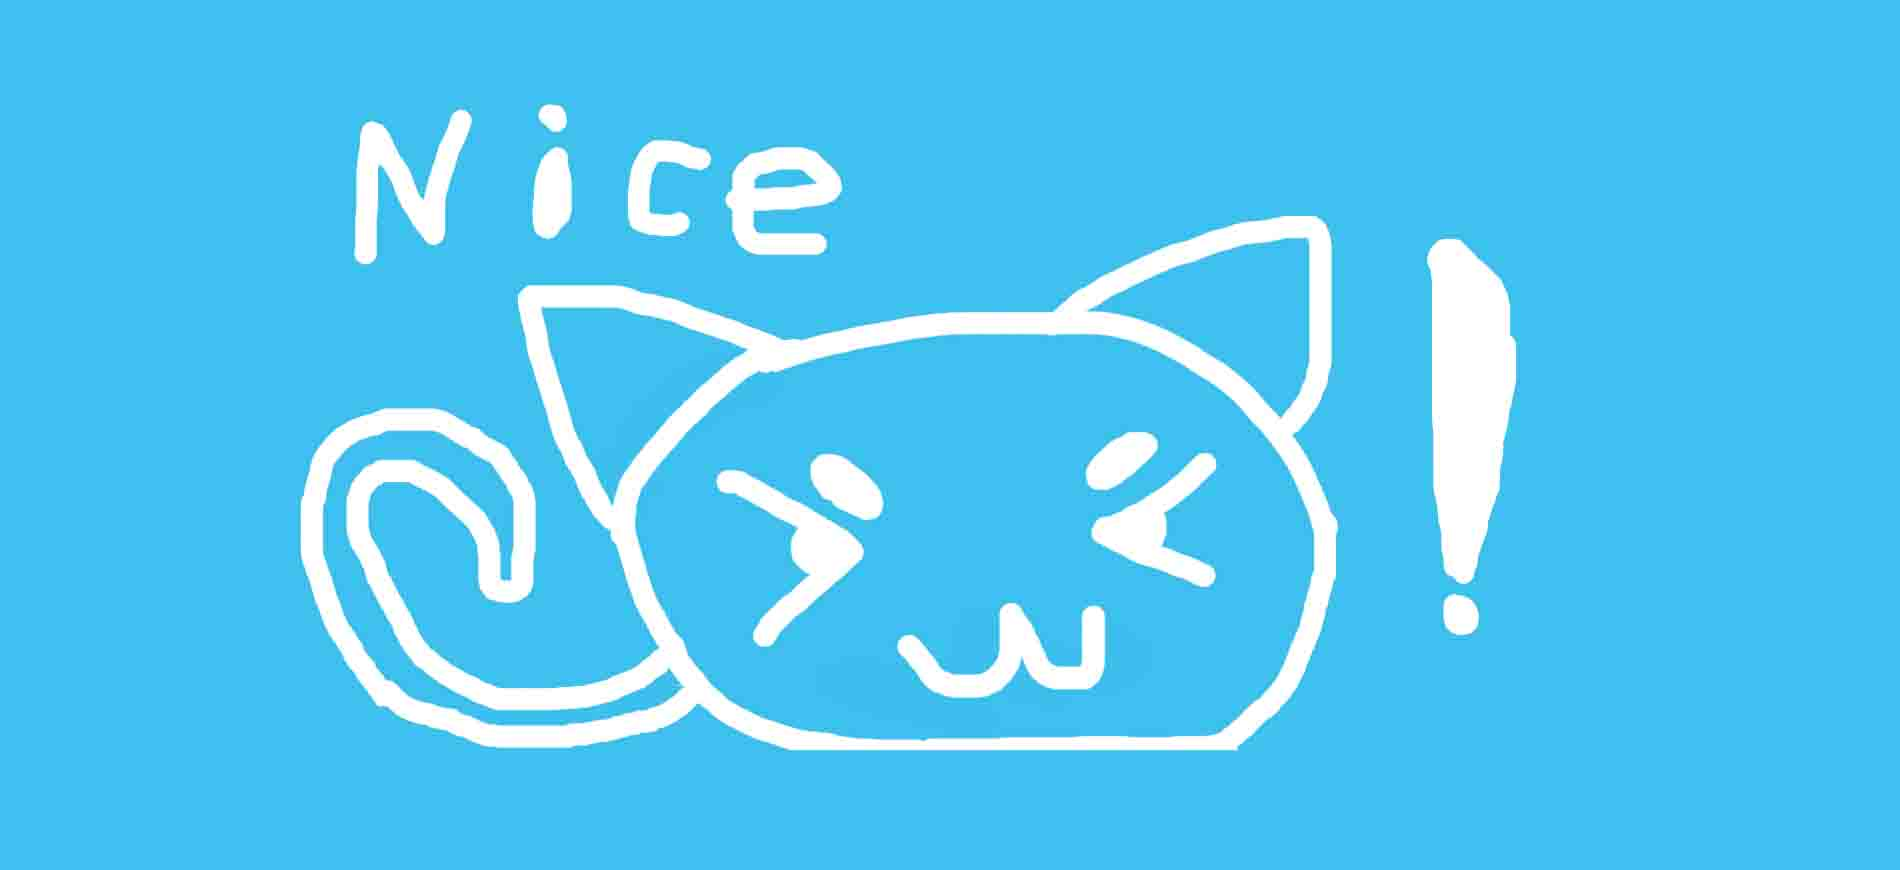
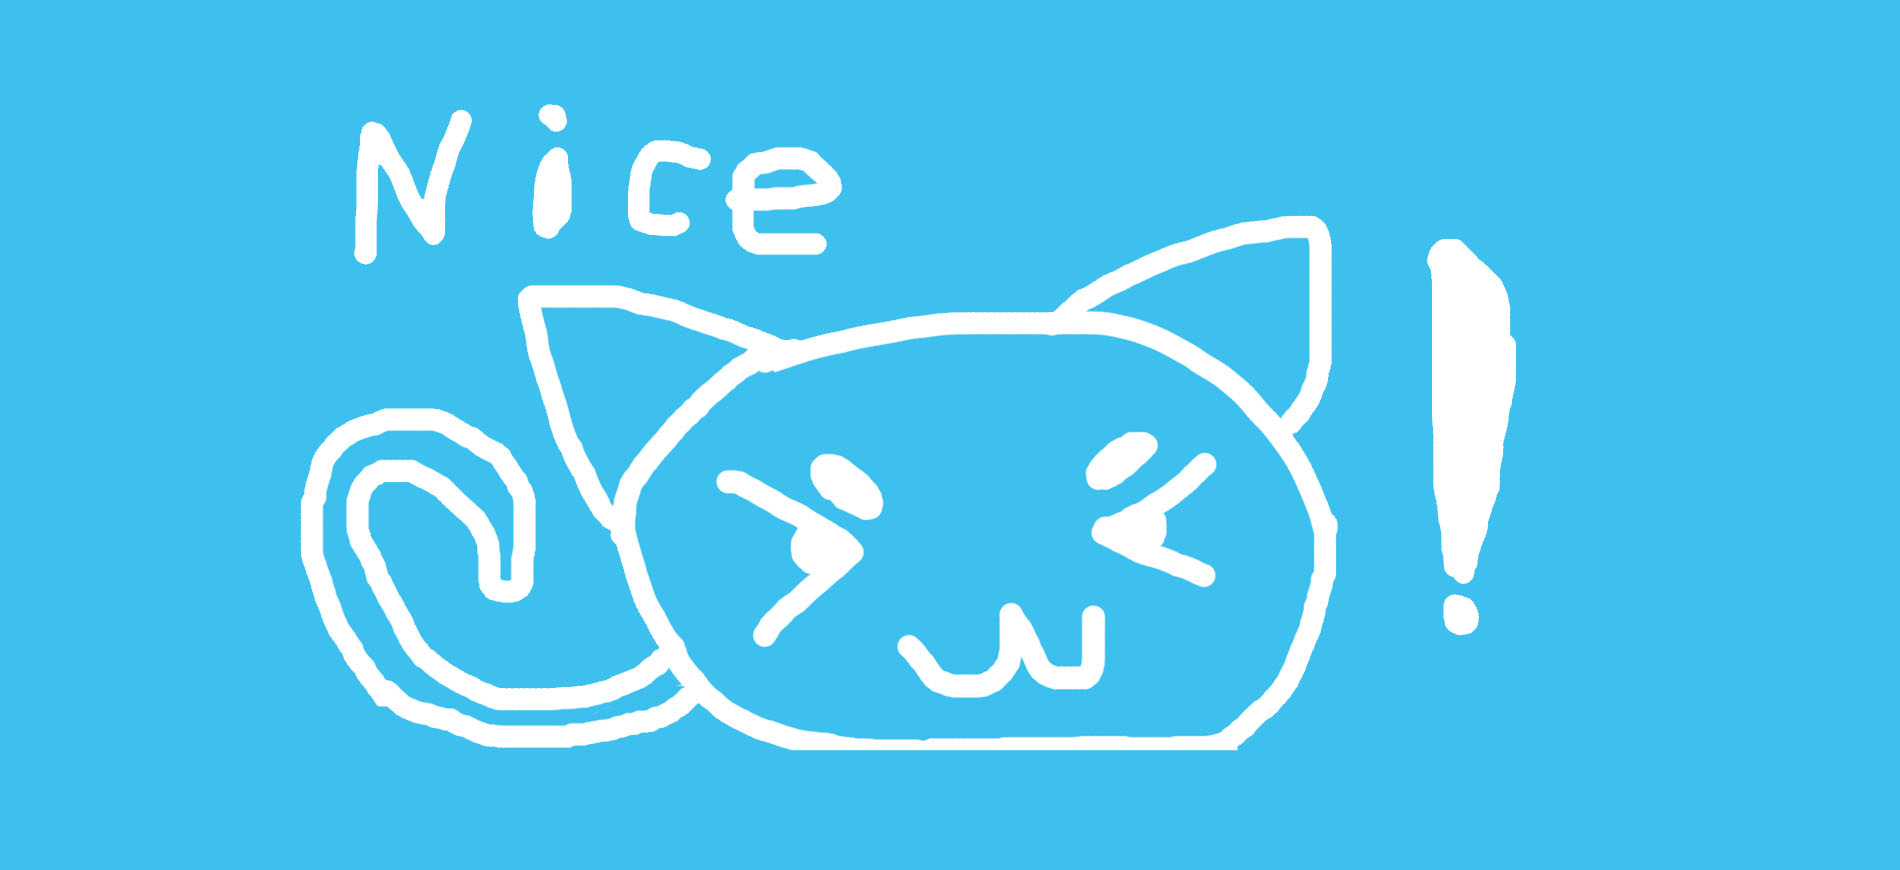
push a post
发表一篇博客
修复一些图片的质量
调整图片的目录结构

diff --git a/_posts/2019-04-20-huawei-google.md b/_posts/2019-04-20-huawei-google.md
@@ -1,0 +1,65 @@
+---
+layout:     post
+title:      "HUAWEI M5 Google应用商店安装"
+subtitle:   "哇, 很简单, 但没想到浪费了这么多时间"
+date:       2019-04-20
+author:     "LeYe Hu"
+header-img: "img/post_header/post-bg-huawei-google-blog.jpg"
+tags:
+    - 经历
+    - Google
+---
+## 前言
+> 前段时间买了个 HUAWEI 的平板
+> ---**华为M5 青春版**
+
+当时选购这款产品, 主要是看中了提供2048级压感的手写笔MPen-Lite
+结果只能呵呵一笑
+问题和毛病很多, 不只是手写笔方面, 系统也是问题多多.
+下面就罗列几点本人觉得问题较大的:
+* 分屏使用时, 常常操作到一半就直接奔溃, 同时很多功能并不支持分屏.
+* 智能语音小度, 功能很少, 只能使用该应用合作或者内置的功能.
+* 手写笔支持的应用不多, 而且断触严重, 手掌的误触也多.
+* 自带的华为应用, 使用体验不流畅. 
+> 举个例子, 使用华为阅读时, 杂志数量少, 好多都是以前的. 加载PDF插件一直没反应. 说实话难受的很.
+
+排除手写笔和zz小度的问题, 对于应用方面想要有个好的体验, 于是准备下载Google Play Store, 装点应用.
+
+首先嘛, 肯定先看一下手机应用有没有Google三件套
+检查了下, 没有, 于是开始下载安装.
+> 先说一下本机的状况吧<br/>
+> 型号: BAH2-W09<br/>
+> EMUI 版本: 8.0<br/>
+> Android 版本: 8.0<br/>
+
+网上找了几个谷歌套件傻瓜式安装的APP, 可以正常进入到Google商店的登录界面. 然后点击登录按键, 迟迟没有反应.
+
+又经历的一系列毫无逻辑和目的的在线搜索后, 看到了一篇**博客**[^1]
+然后有了下眉目
+
+[^1]: [华为EMUI 8.0无法用google套件的解决方法](http://dagai.net/archives/1579)
+
+首先需要下载华为GMS
+链接：[百度云](https://pan.baidu.com/s/1eqdL6aon_2auiMfQkwejIA) 密码：lu02
+
+下载完成后安装会提示该应用会损坏手机系统, 然后一看, 不同以往, 根本没有继续安装的选项.
+
+ 一寻思, 怕不是华为也知道这东西要不得, 这怕不是就找对了. 
+
+于是, 就也得想个法子来应付应付这种情况了.
+![img]({{ site.baseurl }}/img/post_img/huawei-google-01.jpg){: height="640px" width="400px"}
+![img]({{ site.baseurl }}/img/post_img/huawei-google-02.jpg){: height="640px" width="400px"}
+
+重启然后重新安装Google Play Store就可以正常使用了, 感动!!
+别忘了使用VPN进行大陆外网的访问.
+
+Google四件套如下( 听说要按照顺序进行安装, 没有具体测试 ):
+> Google服务框架: Google服务的基础<br/>
+Google账户管理程序: 管理Google账户<br/>
+GooglePlay服务: 用于更新Google应用和Google Play提供的其他应用, 同时提供一些基础服务<br/>
+GooglePlay商店: Android应用的官方商店<br/>
+
+## 后记
+这是真的难受啊, 国内手机使用Google服务是真的难受.
+网上很多教程帖子也各种水. 这篇也是 ORZ
+

diff --git a/_posts/2019-04-15-hello-my-blog.md b/_posts/2019-04-15-hello-my-blog.md
@@ -4,7 +4,7 @@ title:      "Hello My Blog"
 subtitle:   "博客搭建好了, 想想有点小激动"
 date:       2019-04-15
 author:     "LeYe Hu"
-header-img: "img/post-bg-hello-my-blog.jpg"
+header-img: "img/post_header/post-bg-hello-my-blog.jpg"
 tags:
     - 经历
     - MarkDown
